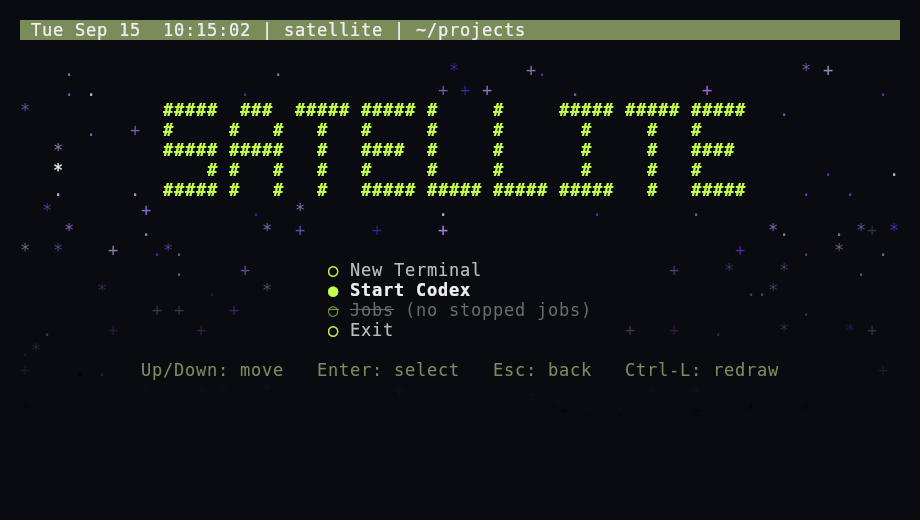
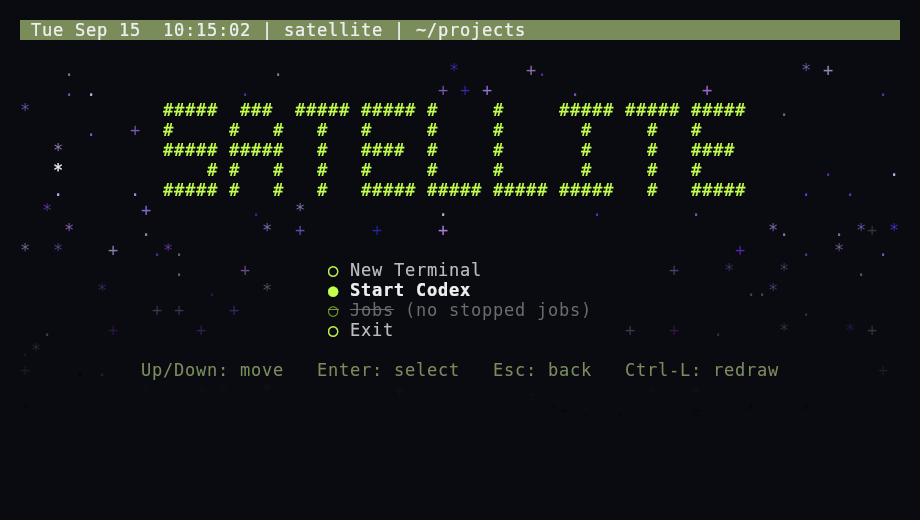
Flash stars and title in bold at shimmer peaks

diff --git a/README.md b/README.md
@@ -104,6 +104,8 @@ bottom right with pronounced cubic ease-in/out: slow at each end and faster thro
 middle. Stars quickly approach white, then slowly regain saturation with
 a 70° hue shift that persists after the band passes. The row brightness fade is
 applied even to white peaks, so the bottom stays dimmer.
+Stars and title characters briefly turn bold around their own near-white sweep
+peak, then return to normal weight as they fade. The selected option stays bold.
 The star field now reaches the control hints and up to two rows below them when
 the terminal has room. The row fade stretches from 65% at the first option to
 5% at the field's last row. Text areas have clear gutters; stars remain sparse
@@ -115,8 +117,8 @@ so most are near the center. Each star also gets a random baseline saturation
 between its palette color's original saturation and 80%, retained for its lifetime.
 The title and option circles join the same sweep with a shared hue 180°
 opposite the center of the star palette. Their baseline hue advances by the same
-70° per sweep. Title/selection bolding and disabled-marker strike/dimming remain
-intact; option labels keep their normal styling. Control hints share the title
+70° per sweep. Selected-option bolding and disabled-marker strike/dimming remain
+intact during the title's bold flash. Control hints share the title
 hue at 35% saturation and 55% brightness, and join the same diagonal sweep.
 During each sweep the full-width status background eases from
 the previous settled hint color to the next, then holds that color.

diff --git a/AGENTS.md b/AGENTS.md
@@ -42,6 +42,9 @@
 - Ease the diagonal's movement in and out while preserving individual flash
   durations. Precompute arrival times instead of solving easing for every cell/frame.
 - Status backgrounds ease to the settled hint color during each sweep.
+- Bold stars and title cells briefly at their own near-white sweep peaks, then
+  restore normal weight. Keep selected-option bolding and disabled styling intact.
+  Include transient weight in cached cells so redraws match animation frames.
 - Compose foreground repairs from final animated cells. Do not paint original
   title colors underneath an overlay or clear/repaint everything on every tick.
   Retain focus/resize/Ctrl-L repairs and the occasional missing-focus fallback.
